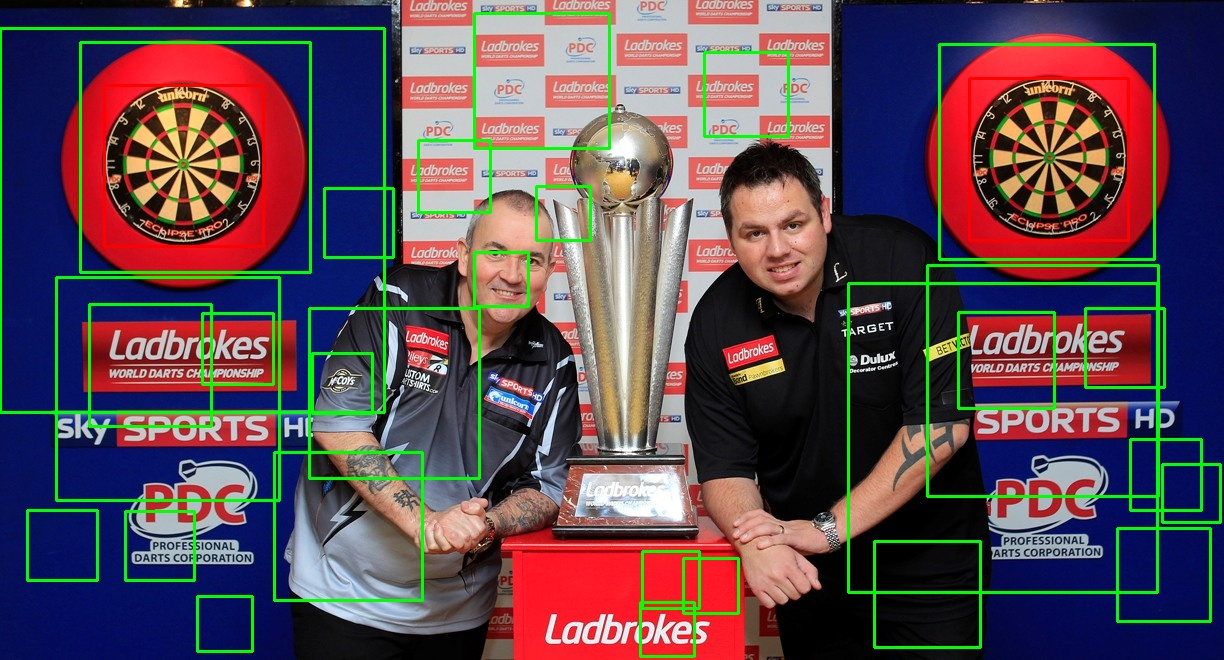
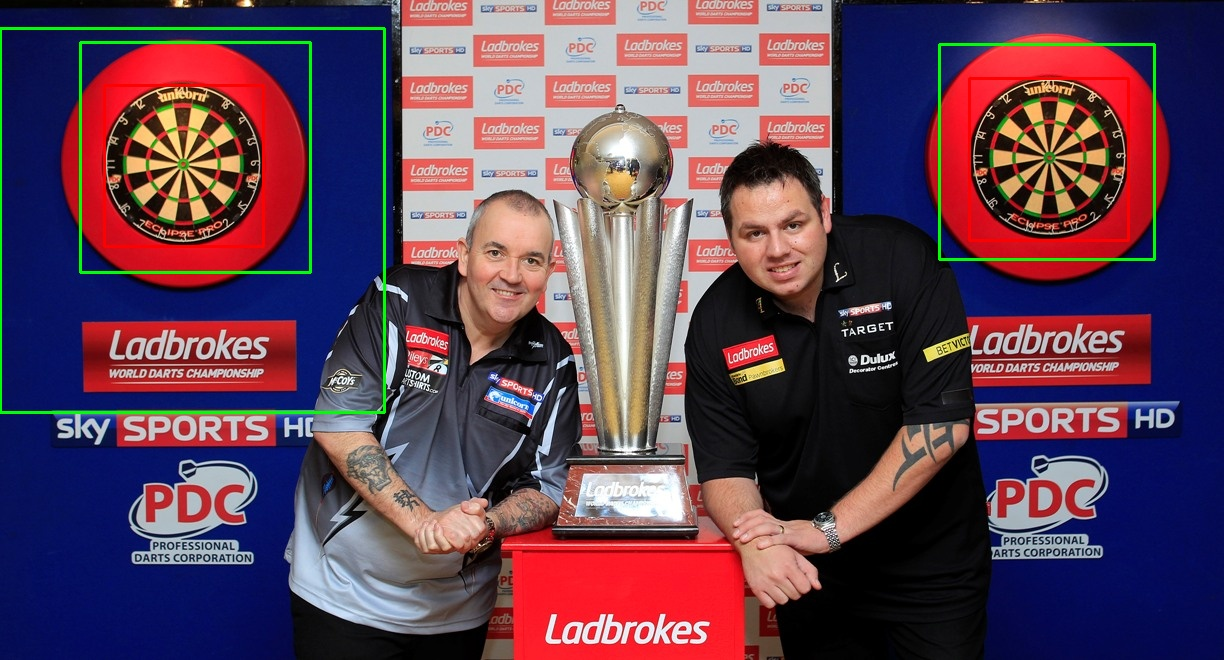
started using hough to improve detector

diff --git a/f1_darts.cpp b/f1_darts.cpp
@@ -38,8 +38,6 @@ CascadeClassifier cascade;
 int main( int argc, const char** argv ) {
     string num = argv[1];
 
-	cout << -10%360 << endl;
-
 	if (num == "all") {
 		for (int i = 0; i < 16; i++) {
 			string file = "images/dart" + to_string(i) + ".jpg";
@@ -50,7 +48,7 @@ int main( int argc, const char** argv ) {
 			if( !cascade.load( cascade_name ) ){ printf("--(!)Error loading\n"); return -1; };
 
 			// 3. Detect Faces and Display Result
-			detectAndDisplay( frame, to_string(i) );
+			detectAndDisplay( frame, to_string(i), file );
 
 			// 4. Save Result Image
 			imwrite( "detected" + to_string(i) + ".jpg", frame );
@@ -148,9 +146,9 @@ void detectAndDisplay( Mat frame, string num, string file ) {
 	std::cout << faces.size() << std::endl;
 
        // 4. Draw box around faces found
-	for( int i = 0; i < faces.size(); i++ ) {
-		rectangle(frame, Point(faces[i].x, faces[i].y), Point(faces[i].x + faces[i].width, faces[i].y + faces[i].height), Scalar( 0, 255, 0 ), 2);
-	}
+	// for( int i = 0; i < faces.size(); i++ ) {
+	// 	rectangle(frame, Point(faces[i].x, faces[i].y), Point(faces[i].x + faces[i].width, faces[i].y + faces[i].height), Scalar( 0, 255, 0 ), 2);
+	// }
 
     vector<Rect> truths = readFile(num);
 
@@ -201,4 +199,50 @@ void detectAndDisplay( Mat frame, string num, string file ) {
 
 	Mat houghCircles = imread("houghOutput.jpg", 1);
 	Mat houghLines = imread("houghLines.jpg", 1);
+
+	Mat linesGray;
+    cvtColor( houghLines, linesGray, CV_BGR2GRAY );
+    // hough lines threshold
+    Mat threshLines = threshold(linesGray, 160);
+	imwrite("FALO2.jpg", threshLines);
+
+	Mat circlesGray;
+	cvtColor( houghCircles, circlesGray, CV_BGR2GRAY );
+	// hough circles threshold
+	Mat threshCircles = threshold(circlesGray, 140);
+	imwrite("FALO3.jpg", threshCircles);
+
+	/* TODO: 
+	 *	   FIND AVERAGE OF FOUND LINES AND CIRCLES
+	 * 	   FIND IOU OF ALL OTHER RECTANGLES
+	 * 	   IF OVERLAP, FIND AVERAGE WIDTH AND HEIGHT AND CENTRE OF RECTANGLES AND DRAW A NEW ONE BASED ON THOSE
+	 * 
+	 * 
+	 */ 
+
+	// for( int i = 0; i < faces.size(); i++ ) {
+	// 	int counter = 0;
+	// 	for (int x = faces[i].x; x <= faces[i].x + faces[i].width; x++) {
+	// 		for (int y = faces[i].y; y <= faces[i].y + faces[i].height; y++) {
+	// 			if (threshCircles.at<uchar>(y, x) == 255) {
+	// 				counter++;
+	// 			}
+	// 		}
+	// 	}
+	// 	std::cout << counter << std::endl;
+	// 	if (counter >= 20) rectangle(frame, Point(faces[i].x, faces[i].y), Point(faces[i].x + faces[i].width, faces[i].y + faces[i].height), Scalar( 0, 255, 0 ), 2);
+	// }
+
+	for( int i = 0; i < faces.size(); i++ ) {
+		int counter = 0;
+		for (int x = faces[i].x; x <= faces[i].x + faces[i].width; x++) {
+			for (int y = faces[i].y; y <= faces[i].y + faces[i].height; y++) {
+				if (threshLines.at<uchar>(y, x) == 255) {
+					counter++;
+				}
+			}
+		}
+		std::cout << counter << std::endl;
+		if (counter >= 20) rectangle(frame, Point(faces[i].x, faces[i].y), Point(faces[i].x + faces[i].width, faces[i].y + faces[i].height), Scalar( 0, 255, 0 ), 2);
+	}
 }

diff --git a/hough.h b/hough.h
@@ -99,7 +99,7 @@ void houghMain( std::string imageName ) {
     imwrite("mag.jpg",resultMag);
     imwrite("dir.jpg", resultDir);
 
-    const int MAXRADIUS = max(image.rows/4, image.cols/4);
+    const int MAXRADIUS = min(image.rows/4, image.cols/4);
 
     int ***houghSpace = malloc3dArray(image.rows, image.cols, MAXRADIUS);
 
@@ -382,7 +382,7 @@ void houghCircle(Mat &input, Mat &gradient, Mat &direction, int ***houghSpace, i
     Mat houghSpaceConvert(gradient.rows, gradient.cols, CV_8UC1);
     normalize(houghSpaceOutput, houghSpaceConvert, 0, 255, NORM_MINMAX);
 
-    imwrite( "houghOuput.jpg", houghSpaceConvert );
+    imwrite( "houghOutput.jpg", houghSpaceConvert );
     imwrite("output3.jpg", input);
 }
 
